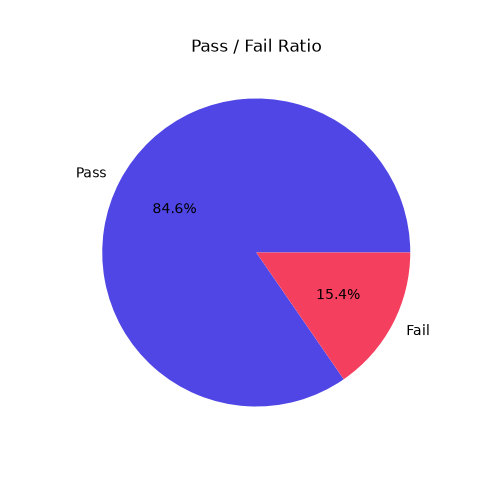
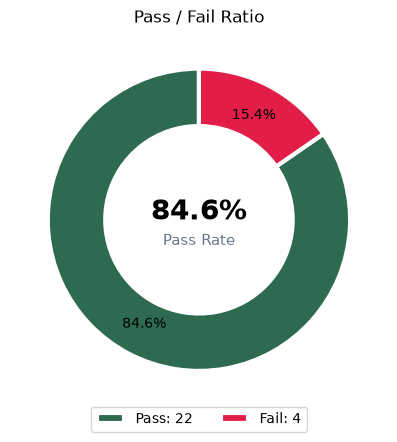
Enhance pass/fail ratio visualization: update pie chart design, add pass percentage text, and improve layout in analysis page. Include Matplotlib methods documentation.

diff --git a/templates/analysis.html b/templates/analysis.html
@@ -17,7 +17,7 @@
                 <img src="{{ url_for('static', filename='graphs/toppers.png') }}">
             </div>
 
-            <div class="graph-box">
+            <div class="graph-box pie-box">
                 <h3>Pass / Fail Ratio</h3>
                 <img src="{{ url_for('static', filename='graphs/pass_fail.png') }}">
             </div>

diff --git a/static/style.css b/static/style.css
@@ -313,6 +313,12 @@ tr:hover td {
     border: 1px solid #E7ECF3;
 }
 
+.pie-box img {
+    display: block;
+    max-width: 430px;
+    margin: 0 auto;
+}
+
 .empty-message {
     background: white;
     border-left: 5px solid #B7791F;

diff --git a/app.py b/app.py
@@ -253,11 +253,23 @@ def analysis():
     # 3. Pass/fail ratio.
     pass_count = len(students[students['Percentage'] >= 40])
     fail_count = len(students[students['Percentage'] < 40])
+    pass_percentage = round((pass_count / len(students)) * 100, 1)
 
-    plt.figure(figsize=(5, 5))
-    plt.pie([pass_count, fail_count], labels=['Pass', 'Fail'], colors=['#4F46E5', '#F43F5E'], autopct='%1.1f%%')
+    plt.figure(figsize=(4.5, 4.5))
+    plt.pie(
+        [pass_count, fail_count],
+        colors=['#2D6A4F', '#E11D48'],
+        startangle=90,
+        autopct='%1.1f%%',
+        pctdistance=0.78,
+        wedgeprops={'width': 0.38, 'edgecolor': 'white', 'linewidth': 3}
+    )
+    plt.text(0, 0.05, f'{pass_percentage}%', ha='center', va='center', fontsize=20, fontweight='bold')
+    plt.text(0, -0.14, 'Pass Rate', ha='center', va='center', fontsize=11, color='#64748B')
     plt.title('Pass / Fail Ratio')
-    plt.savefig(f'{GRAPH_FOLDER}/pass_fail.png')
+    plt.legend([f'Pass: {pass_count}', f'Fail: {fail_count}'], loc='lower center', bbox_to_anchor=(0.5, -0.08), ncol=2)
+    plt.tight_layout()
+    plt.savefig(f'{GRAPH_FOLDER}/pass_fail.png', bbox_inches='tight')
     plt.close()
 
     # 4. Percentage of every student.

diff --git a/matplotlib_methods.md b/matplotlib_methods.md
@@ -1,0 +1,35 @@
+# Matplotlib Methods Used
+
+This file lists every Matplotlib method used in `app.py` with a one-line explanation
+
+- `matplotlib.use()` : Sets the Matplotlib backend (here `'Agg'`) so plots can be rendered to files without a display.
+- `plt.figure()` : Creates a new figure object and sets the figure size for subsequent plotting commands.
+- `plt.bar()` : Draws a bar chart for the provided x and height values.
+- `plt.title()` : Adds a title string to the current axes.
+- `plt.ylabel()` : Sets the label text for the y-axis.
+- `plt.xticks()` : Configures the x-axis tick labels and their appearance (rotation, alignment, font size).
+- `plt.tight_layout()` : Adjusts subplot parameters to give specified padding and avoid label overlap.
+- `plt.savefig()` : Saves the current figure to an image file on disk (PNG in this project).
+- `plt.close()` : Closes the current figure to free memory.
+- `plt.pie()` : Draws a pie chart for parts of a whole and supports customization (colors, start angle, autopct, etc.).
+- `plt.text()` : Places text at an arbitrary position on the axes (used here for pass percentage and caption).
+- `plt.legend()` : Adds a legend to the axes describing plotted elements.
+
+Below are the keyword-argument names used in `app.py` with a beginner-friendly one-line explanation for each usage.
+
+- `figsize` (in `plt.figure(figsize=(w, h))`) : Sets the figure width and height in inches so the plot has the desired aspect and space.
+- `color` : Sets the fill color(s) for bars or pie slices; can be a single color or a list matching each bar/slice.
+- `rotation` (in `plt.xticks`) : Rotates the x-axis tick labels by degrees so long names don't overlap.
+- `ha` (horizontal alignment) : Aligns text or tick labels horizontally (`'left'`, `'center'`, `'right'`).
+- `va` (vertical alignment) : Aligns text vertically (`'top'`, `'center'`, `'bottom'`).
+- `fontsize` : Sets the font size for text elements like tick labels or annotations.
+- `fontweight` : Sets text boldness (e.g., `'bold'`) for emphasis on numbers or titles.
+- `startangle` (in `plt.pie`) : Rotates the start position of the first pie slice so the chart orientation is clearer.
+- `autopct` (in `plt.pie`) : A format string (`'%1.1f%%'`) that tells Matplotlib to draw percentage labels on slices.
+- `pctdistance` (in `plt.pie`) : Controls how far the `autopct` percentage text is placed from the center of the pie.
+- `wedgeprops` (in `plt.pie`) : A dictionary of properties for pie wedges; `{'width': x}` creates a donut by reducing slice radius.
+- `edgecolor` / `linewidth` (inside `wedgeprops`) : Set wedge border color and border thickness to make slices visually distinct.
+- `bbox_inches` (in `plt.savefig`) : When `'tight'`, trims extra whitespace around the saved figure so images are neatly cropped.
+- `bbox_to_anchor` (in `plt.legend`) : Positions the legend box relative to the axes using coordinates or tuples (useful to place the legend outside the plot).
+- `loc` (in `plt.legend`) : Chooses which corner/edge of the `bbox_to_anchor` the legend should attach to (e.g., `'lower center'`).
+- `ncol` (in `plt.legend`) : Sets how many columns the legend should use, useful for compact horizontal legends.
